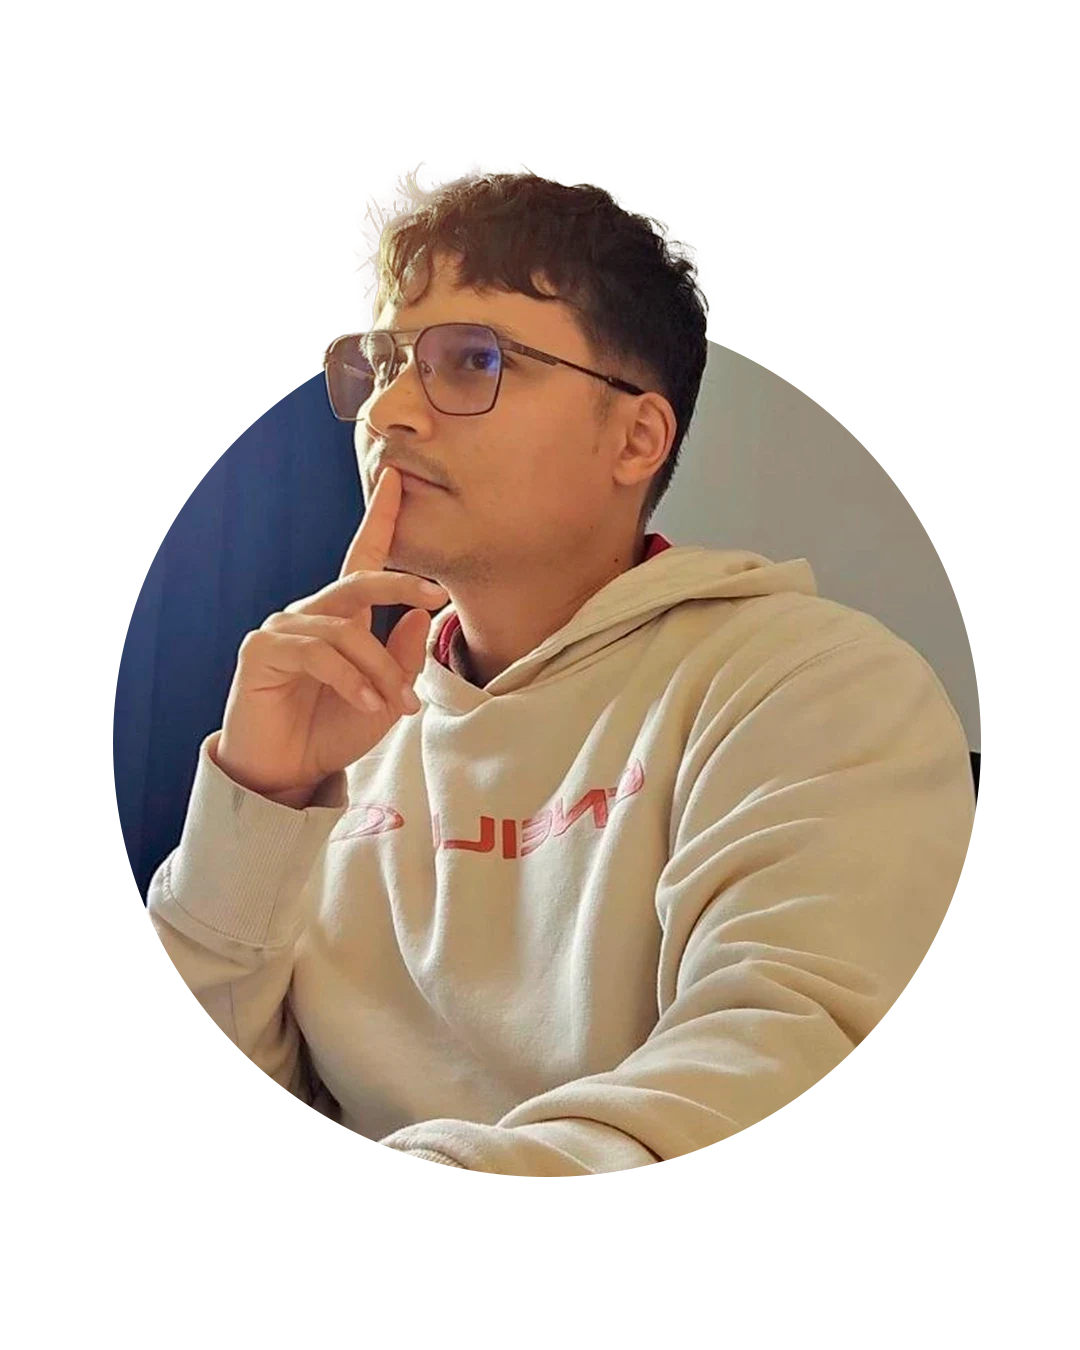
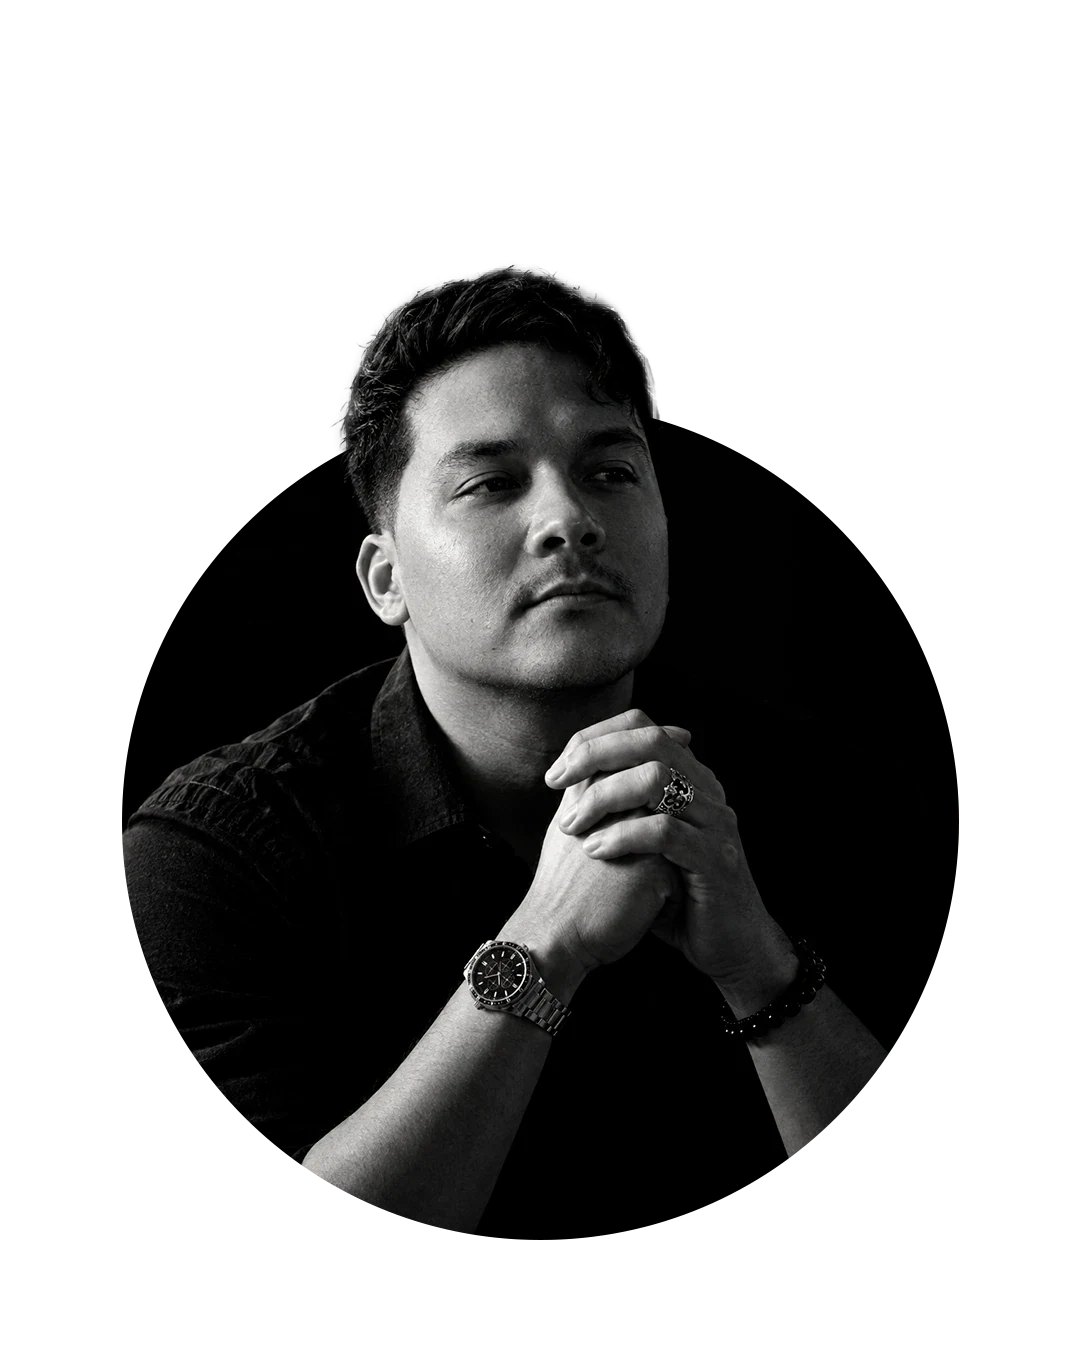
Nuevo retrato en el inicio, foto en Sobre mí y esa página reorganizada en dos franjas

diff --git a/assets/css/styles.css b/assets/css/styles.css
@@ -664,7 +664,7 @@ main,
 
 @media (min-width: 860px) {
   .hero {
-    grid-template-columns: minmax(0, 6fr) minmax(0, 5fr);
+    grid-template-columns: minmax(0, 1fr) minmax(0, 1fr);
   }
 }
 
@@ -820,7 +820,7 @@ main,
 
 .hero__visual {
   position: relative;
-  width: min(100%, 26rem);
+  width: min(100%, 33rem);
   margin-inline: auto;
   aspect-ratio: 1;
 }
@@ -3090,7 +3090,7 @@ main,
 .sobre {
   display: grid;
   gap: clamp(2rem, 5vw, 4.5rem);
-  padding-bottom: clamp(3rem, 7vw, 6rem);
+  padding-bottom: clamp(2rem, 5vw, 3.5rem);
 }
 
 @media (min-width: 800px) {
@@ -3119,15 +3119,43 @@ main,
   font-size: 1.4rem;
 }
 
-.sobre__texto .herramientas {
+.sobre__texto .boton {
+  margin-top: 2rem;
+}
+
+/* Segunda franja de Sobre mí, a todo el ancho (bajo la foto y la bio): clientes a la izquierda en dos
+   columnas y herramientas a la derecha. Así no queda un hueco bajo la foto. */
+.sobre-extra {
+  display: grid;
+  gap: clamp(2rem, 4vw, 3.5rem);
+  padding-block: clamp(2rem, 5vw, 3.5rem) clamp(3rem, 7vw, 6rem);
+  border-top: 1px solid var(--linea);
+}
+
+@media (min-width: 900px) {
+  .sobre-extra {
+    grid-template-columns: minmax(0, 7fr) minmax(0, 5fr);
+  }
+}
+
+.sobre-extra h2 {
+  margin-bottom: 1.1rem;
+  font-size: 1.4rem;
+}
+
+.sobre-extra .herramientas {
   margin-top: 0;
 }
 
 .lista {
   display: grid;
   gap: 0.6rem;
-  max-width: 38rem;
-  margin-bottom: 2.5rem;
+}
+
+@media (min-width: 560px) {
+  .lista {
+    grid-template-columns: repeat(2, minmax(0, 1fr));
+  }
 }
 
 .lista li {

diff --git a/build.js b/build.js
@@ -818,11 +818,15 @@ function paginaSobreMi(site) {
   <div class="sobre__texto">
     ${(s.bio || []).map((t) => `<p>${esc(t)}</p>`).join('')}
     ${(site.habilidades || []).length ? `<h2>Habilidades técnicas</h2>${habilidades(site)}` : ''}
-    <h2>Con quién trabajo</h2>
-    <ul class="lista">${(s.clientes || []).map((c) => `<li>${esc(c)}</li>`).join('')}</ul>
-    ${(site.herramientas || []).length ? `<h2>Herramientas</h2>${herramientas(site)}` : ''}
     <a class="boton" href="/contacto/">Hablemos</a>
   </div>
+</section>
+<section class="sobre-extra">
+  <div>
+    <h2>Con quién trabajo</h2>
+    <ul class="lista">${(s.clientes || []).map((c) => `<li>${esc(c)}</li>`).join('')}</ul>
+  </div>
+  ${(site.herramientas || []).length ? `<div><h2>Herramientas</h2>${herramientas(site)}</div>` : ''}
 </section>`;
   return layout(site, {
     title: 'Sobre mí',
